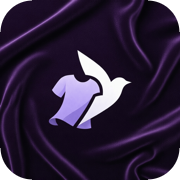
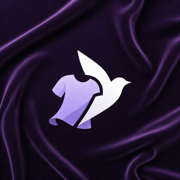
newlogo

diff --git a/components/landing-page.tsx b/components/landing-page.tsx
@@ -7,8 +7,9 @@ import { useLanguage } from '@/components/language-context';
 
 const dictionary = {
   tr: {
-    eyebrow: 'FASHION TECH EXPERIENCE',
-    headline: 'Dress better, faster.',
+    eyebrow: 'MODA TEKNOLOJİ DENEYİMİ',
+    headlineLine1: 'Daha hızlı,',
+    headlineLine2: 'daha şık giyin.',
     subHeadline: 'AI destekli seçim. Gerçek stil akışı. Premium sunum.',
     heroText:
       'StyleUpS, gardırobunu günlük karar motoruna dönüştürür: güçlü eşleştirme, proof moderasyonu ve zarif topluluk akışı.',
@@ -19,13 +20,13 @@ const dictionary = {
       { value: '3x', text: 'Proof kontrolüyle daha güvenli paylaşım' },
       { value: '24/7', text: 'Bulut moderasyon ve plan güvenliği' },
     ],
-    aiPickLabel: 'AI STYLING',
+    aiPickLabel: 'AI STİL ASISTANI',
     aiPickTitle: 'Kombin hazır, sen giyin yeter.',
     aiPickText: '4 parça · 1 saniye · sonsuz stil.',
     section1Title: 'Premium görünüm, gerçek günlük değer.',
     features: [
       {
-        title: 'AI Stylist Picks',
+        title: 'AI Stil Önerileri',
         text: 'Moda uyumlu renk dengesi ve stil tutarlılığıyla gardırobundan güçlü kombinler üretir.',
       },
       {
@@ -58,16 +59,16 @@ const dictionary = {
     section3Title: 'Planlar',
     plans: [
       {
-        name: 'Free',
+        name: 'Ücretsiz',
         limits: '20 parça · günde 2 kombin · günde 1 paylaşım',
         price: '$0',
         note: 'Başlangıç ve deneme için ideal.',
       },
       {
-        name: 'Invite',
+        name: 'Davetli',
         limits: '40 parça · günde 5 kombin · günde 2 paylaşım',
         price: 'Referans ödülü',
-        note: 'Her 5 başarılı davette 1 ay Invite süresi eklenir.',
+        note: 'Her 5 başarılı davette 1 ay Davetli süresi eklenir.',
       },
       {
         name: 'Premium VIP',
@@ -90,7 +91,8 @@ const dictionary = {
   },
   en: {
     eyebrow: 'FASHION TECH EXPERIENCE',
-    headline: 'Dress better, faster.',
+    headlineLine1: 'Dress better,',
+    headlineLine2: 'faster.',
     subHeadline: 'AI-backed picks. Real style flow. Premium presentation.',
     heroText:
       'StyleUpS turns your wardrobe into a daily decision engine with strong matching, proof moderation, and elegant community flow.',
@@ -202,7 +204,8 @@ export function LandingPage() {
         >
           <p className="eyebrow">{c.eyebrow}</p>
           <h1>
-            {c.headline}
+            {c.headlineLine1}<br />
+            {c.headlineLine2}
             <span>{c.subHeadline}</span>
           </h1>
 

diff --git a/components/site-chrome.tsx b/components/site-chrome.tsx
@@ -1,6 +1,5 @@
 'use client';
 
-import Image from 'next/image';
 import Link from 'next/link';
 import { useEffect, useState } from 'react';
 import { LanguageProvider, useLanguage } from '@/components/language-context';
@@ -50,14 +49,13 @@ function SiteChromeInner({ children }: { children: React.ReactNode }) {
       <div className="ambient-bg" aria-hidden />
       <header className="site-header">
         <Link href="/" className="brand-link">
-          <Image
+          {/* eslint-disable-next-line @next/next/no-img-element */}
+          <img
             src="/logo.png"
             alt="StyleUpS Logo"
             width={40}
             height={40}
             className="brand-logo"
-            unoptimized
-            priority
           />
           StyleUpS
         </Link>

diff --git a/app/globals.css b/app/globals.css
@@ -124,8 +124,10 @@ button {
   width: 38px;
   height: 38px;
   border-radius: 10px;
-  object-fit: contain;
+  object-fit: cover;
   flex-shrink: 0;
+  box-shadow: 0 1px 4px rgba(0, 0, 0, 0.15);
+  border: 1px solid var(--border);
 }
 
 .header-right {
